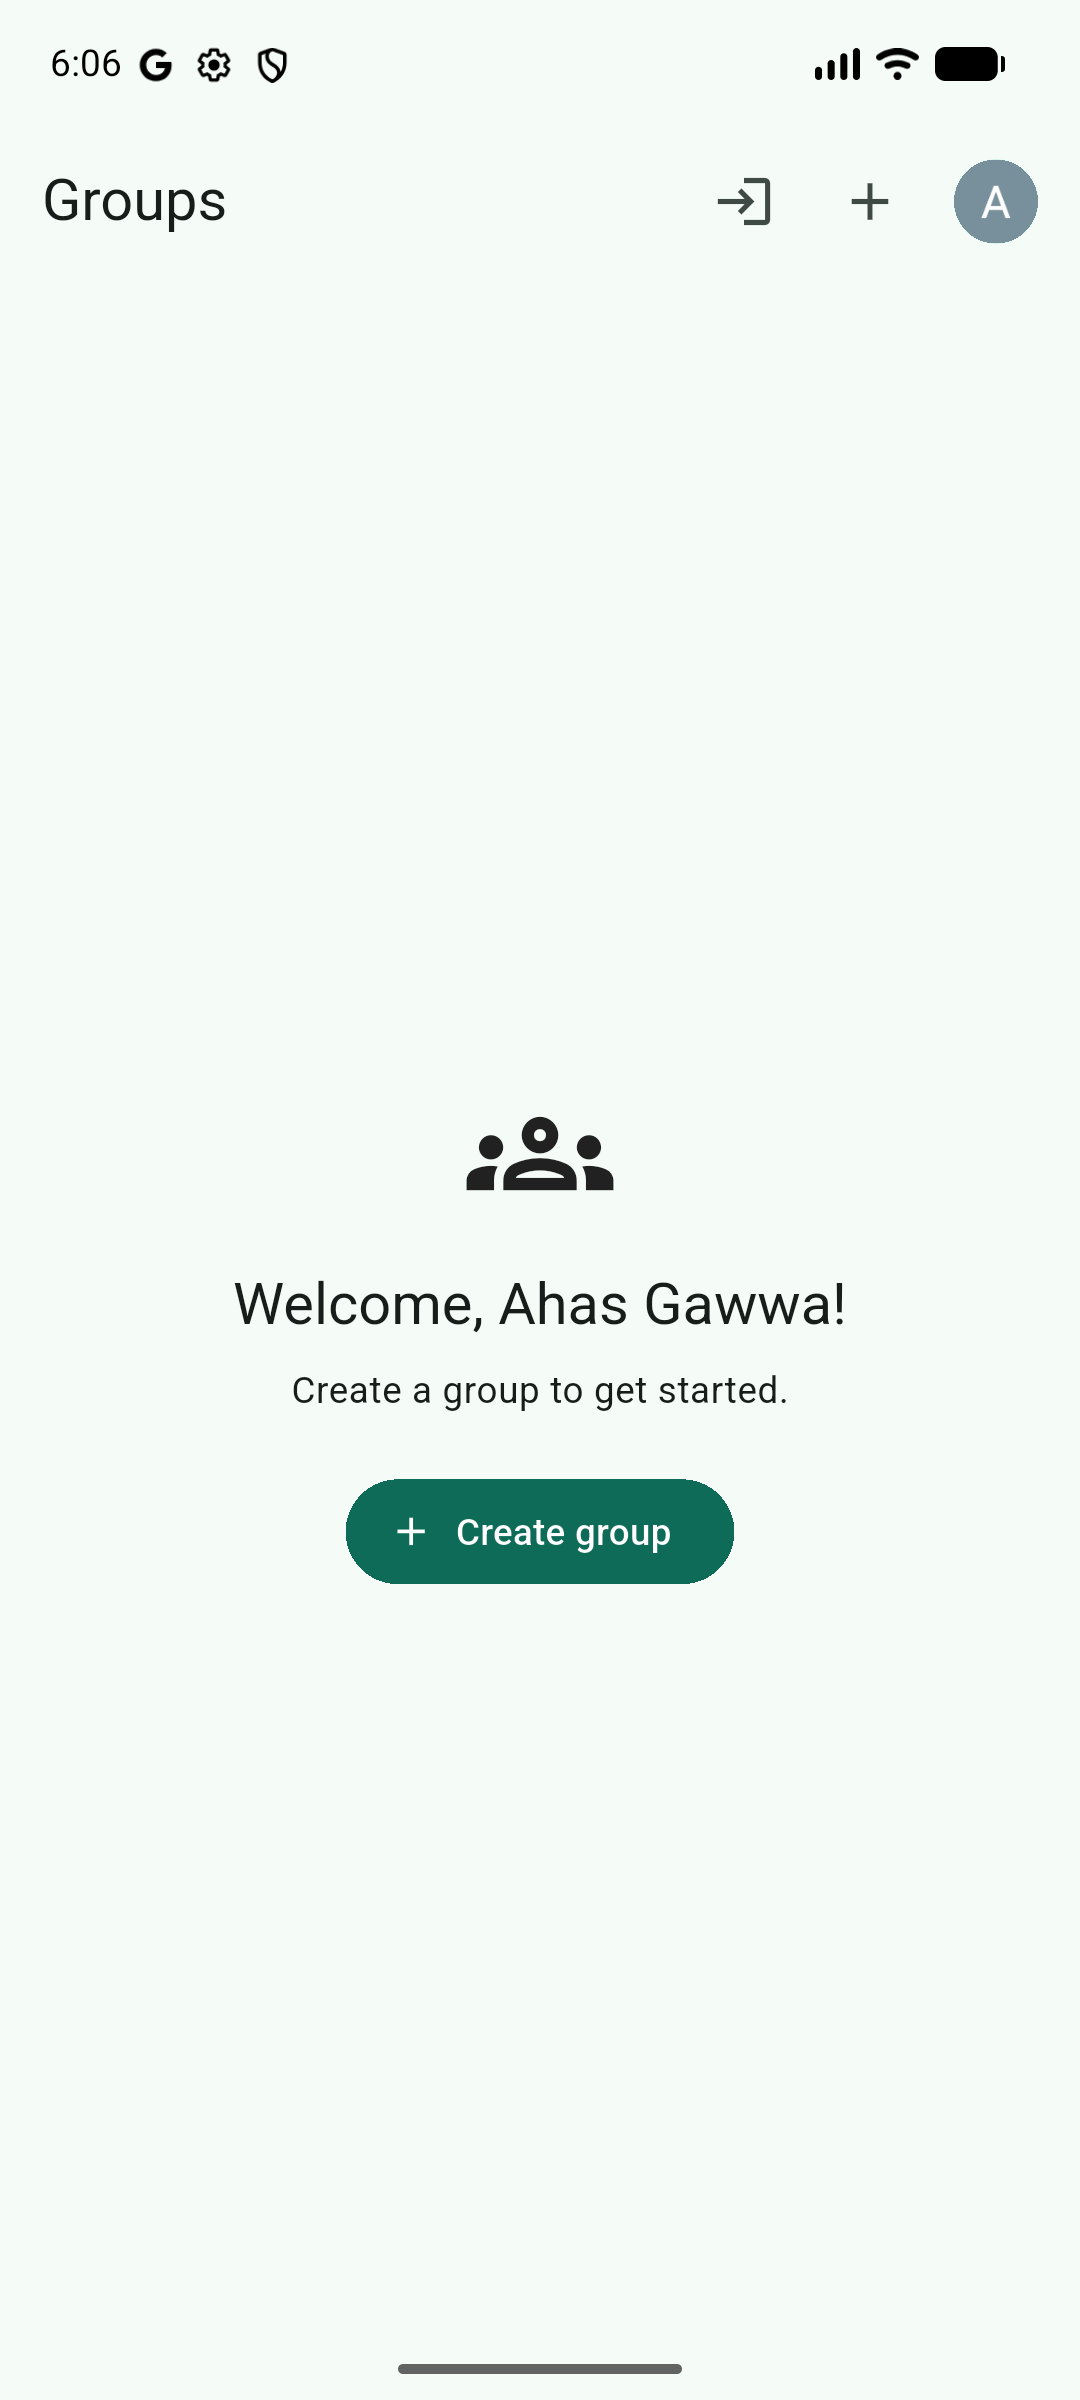
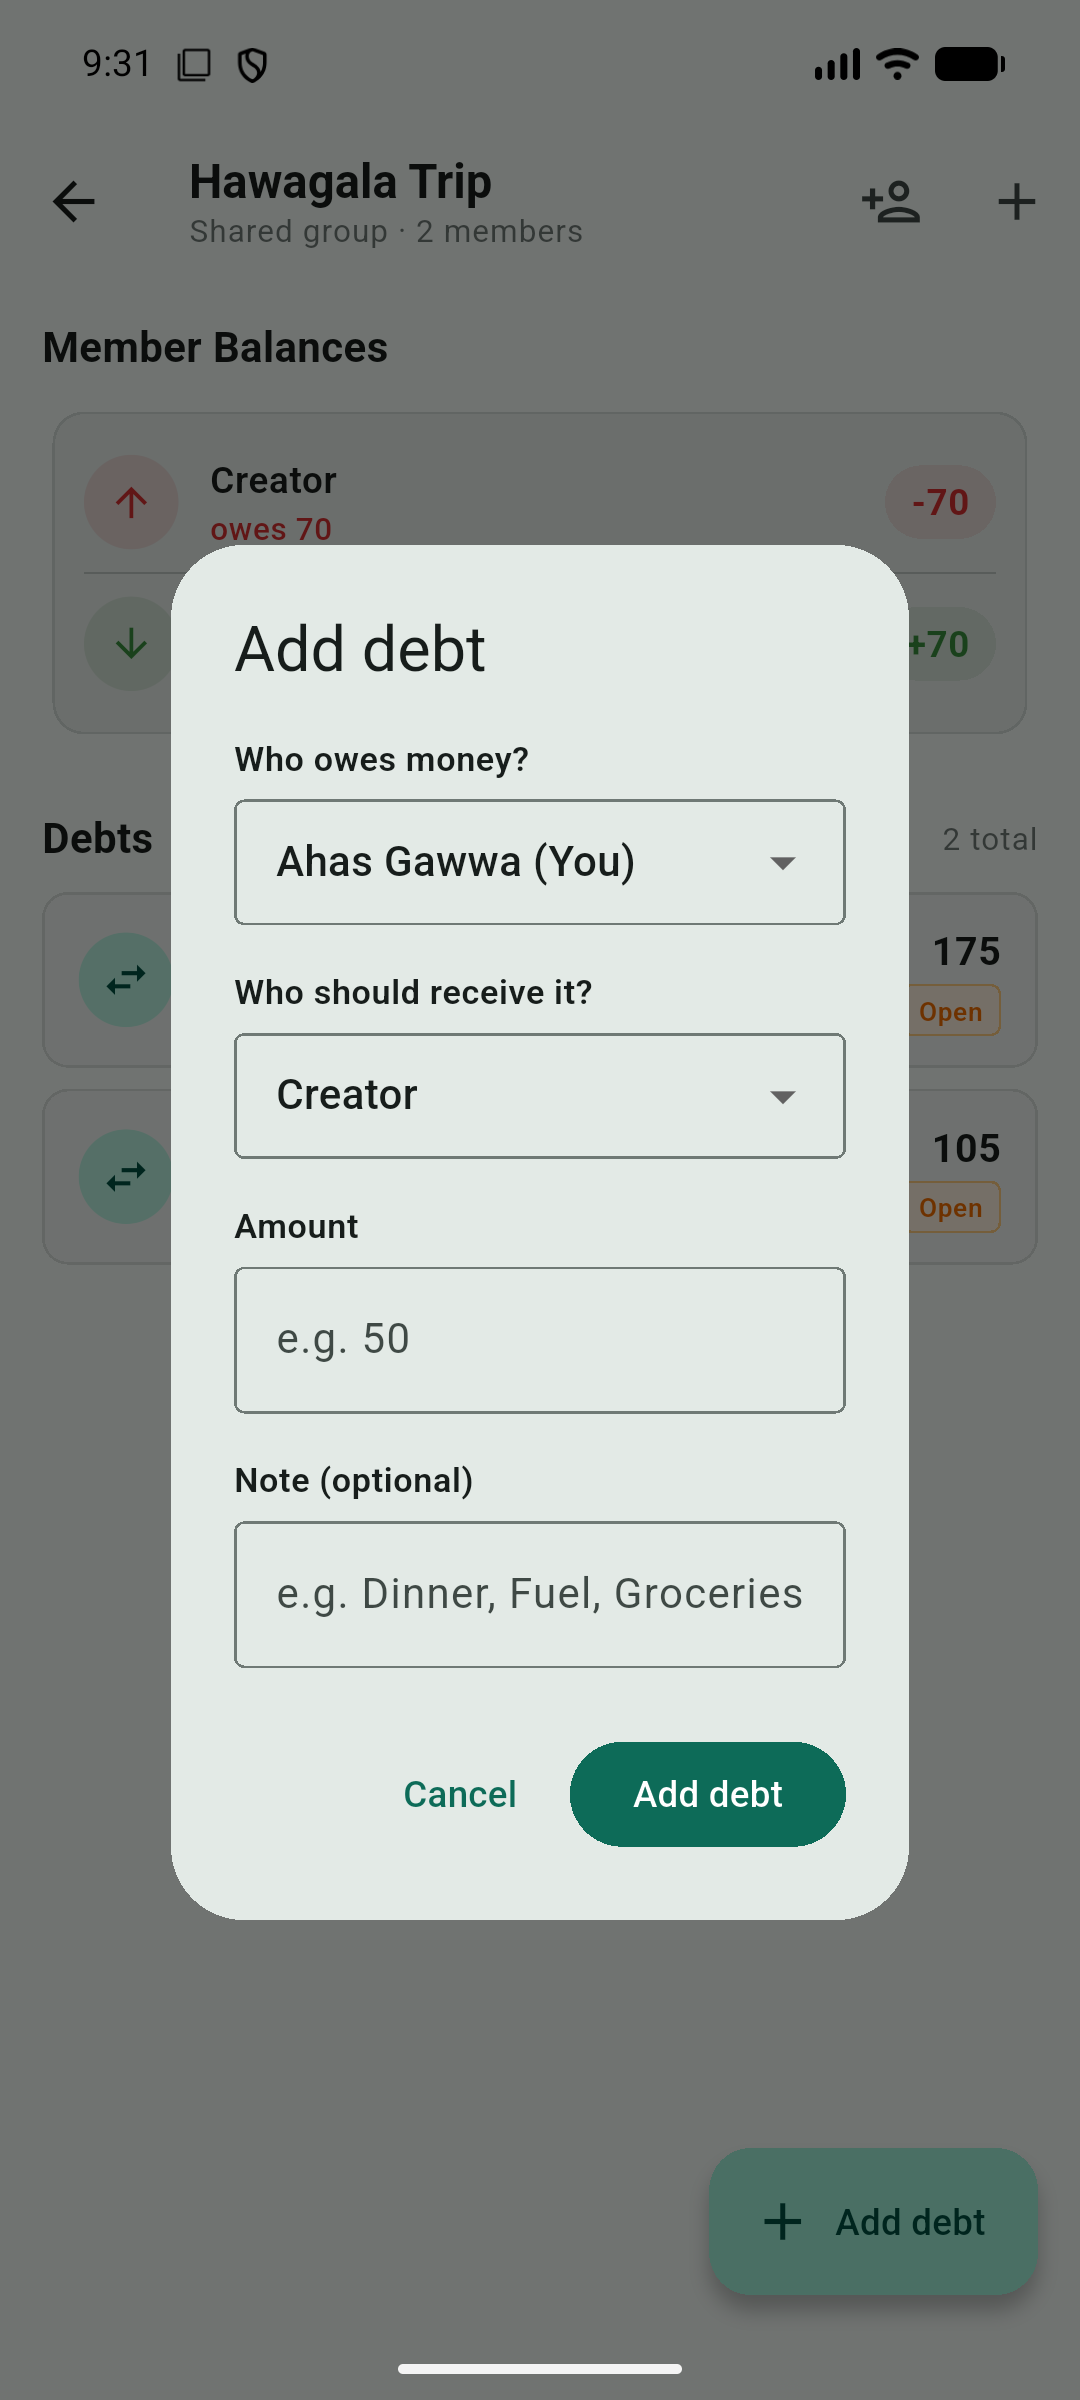
feat: add group details screen, group service, and firestore security rules

diff --git a/shared_debts/lib/screens/group_details_screen.dart b/shared_debts/lib/screens/group_details_screen.dart
@@ -44,8 +44,15 @@ class _GroupDetailsScreenState extends State<GroupDetailsScreen> {
       }
       return 'You';
     }
+    if (memberId == widget.group.creatorId) {
+      return 'Creator';
+    }
+    final index = widget.group.memberIds.indexOf(memberId);
+    if (index != -1) {
+      return 'Member ${index + 1}';
+    }
     final short = memberId.length > 6 ? memberId.substring(0, 6) : memberId;
-    return 'Member ($short)';
+    return 'Member $short';
   }
 
   String _formatAmount(double amount) {
@@ -479,75 +486,111 @@ class _GroupDetailsScreenState extends State<GroupDetailsScreen> {
   }
 
   Widget _buildDebtCard(Debt debt) {
+    final debtor = _formatMemberLabel(debt.debtorId);
+    final creditor = _formatMemberLabel(debt.creditorId);
+
     return Card(
+      elevation: 0,
       margin: const EdgeInsets.only(bottom: 8),
       shape: RoundedRectangleBorder(
         borderRadius: BorderRadius.circular(10),
-      ),
-      child: ListTile(
-        contentPadding: const EdgeInsets.symmetric(horizontal: 16, vertical: 4),
-        leading: CircleAvatar(
-          backgroundColor: Theme.of(context)
+        side: BorderSide(
+          color: Theme.of(context)
               .colorScheme
-              .primaryContainer
-              .withValues(alpha: 0.7),
-          child: Icon(
-            Icons.swap_horiz,
-            color: Theme.of(context).colorScheme.onPrimaryContainer,
-          ),
+              .outlineVariant
+              .withValues(alpha: 0.5),
         ),
-        title: RichText(
-          text: TextSpan(
-            style: DefaultTextStyle.of(context).style,
-            children: [
-              TextSpan(
-                text: _formatMemberLabel(debt.debtorId),
-                style: const TextStyle(fontWeight: FontWeight.bold),
-              ),
-              const TextSpan(text: ' owes '),
-              TextSpan(
-                text: _formatMemberLabel(debt.creditorId),
-                style: const TextStyle(fontWeight: FontWeight.bold),
-              ),
-            ],
-          ),
-        ),
-        subtitle: debt.note != null && debt.note!.isNotEmpty
-            ? Padding(
-                padding: const EdgeInsets.only(top: 4),
-                child: Text(
-                  debt.note!,
-                  style: TextStyle(color: Colors.grey.shade700),
-                ),
-              )
-            : null,
-        trailing: Column(
-          mainAxisAlignment: MainAxisAlignment.center,
-          crossAxisAlignment: CrossAxisAlignment.end,
+      ),
+      child: Padding(
+        padding: const EdgeInsets.symmetric(horizontal: 14, vertical: 12),
+        child: Row(
+          crossAxisAlignment: CrossAxisAlignment.center,
           children: [
-            Text(
-              _formatAmount(debt.amount),
-              style: const TextStyle(
-                fontWeight: FontWeight.bold,
-                fontSize: 16,
+            CircleAvatar(
+              radius: 18,
+              backgroundColor: Theme.of(context)
+                  .colorScheme
+                  .primaryContainer
+                  .withValues(alpha: 0.7),
+              child: Icon(
+                Icons.swap_horiz,
+                size: 20,
+                color: Theme.of(context).colorScheme.onPrimaryContainer,
               ),
             ),
-            const SizedBox(height: 2),
-            Container(
-              padding: const EdgeInsets.symmetric(horizontal: 6, vertical: 2),
-              decoration: BoxDecoration(
-                color: Colors.orange.shade50,
-                border: Border.all(color: Colors.orange.shade200),
-                borderRadius: BorderRadius.circular(6),
+            const SizedBox(width: 12),
+            Expanded(
+              child: Column(
+                crossAxisAlignment: CrossAxisAlignment.start,
+                mainAxisSize: MainAxisSize.min,
+                children: [
+                  Text.rich(
+                    TextSpan(
+                      style: Theme.of(context).textTheme.bodyMedium?.copyWith(
+                            color: Colors.black87,
+                            fontSize: 14,
+                          ),
+                      children: [
+                        TextSpan(
+                          text: debtor,
+                          style: const TextStyle(fontWeight: FontWeight.w700),
+                        ),
+                        const TextSpan(text: ' owes '),
+                        TextSpan(
+                          text: creditor,
+                          style: const TextStyle(fontWeight: FontWeight.w700),
+                        ),
+                      ],
+                    ),
+                    maxLines: 2,
+                    overflow: TextOverflow.ellipsis,
+                  ),
+                  if (debt.note != null && debt.note!.trim().isNotEmpty) ...[
+                    const SizedBox(height: 3),
+                    Text(
+                      debt.note!.trim(),
+                      style: TextStyle(
+                        fontSize: 12,
+                        color: Colors.grey.shade600,
+                      ),
+                      maxLines: 1,
+                      overflow: TextOverflow.ellipsis,
+                    ),
+                  ],
+                ],
               ),
-              child: Text(
-                'Open',
-                style: TextStyle(
-                  fontSize: 10,
-                  fontWeight: FontWeight.w600,
-                  color: Colors.orange.shade800,
+            ),
+            const SizedBox(width: 12),
+            Column(
+              crossAxisAlignment: CrossAxisAlignment.end,
+              mainAxisSize: MainAxisSize.min,
+              children: [
+                Text(
+                  _formatAmount(debt.amount),
+                  style: const TextStyle(
+                    fontWeight: FontWeight.bold,
+                    fontSize: 15,
+                  ),
                 ),
-              ),
+                const SizedBox(height: 2),
+                Container(
+                  padding:
+                      const EdgeInsets.symmetric(horizontal: 6, vertical: 2),
+                  decoration: BoxDecoration(
+                    color: Colors.orange.shade50,
+                    border: Border.all(color: Colors.orange.shade200),
+                    borderRadius: BorderRadius.circular(4),
+                  ),
+                  child: Text(
+                    'Open',
+                    style: TextStyle(
+                      fontSize: 10,
+                      fontWeight: FontWeight.w600,
+                      color: Colors.orange.shade800,
+                    ),
+                  ),
+                ),
+              ],
             ),
           ],
         ),

diff --git a/shared_debts/test/widget_test.dart b/shared_debts/test/widget_test.dart
@@ -331,6 +331,23 @@ void main() {
       () => service.joinGroupWithToken(validToken, 'user_1'),
       throwsA(predicate((e) => e.toString().contains('already a member'))),
     );
+
+    // Unrelated user cannot revoke another group's invitation
+    final token2 = await service.createInvitation(
+      groupId: group.id,
+      creatorId: 'user_1',
+    );
+    expect(
+      () => service.revokeInvitation(token: token2, userId: 'unrelated_user'),
+      throwsA(predicate((e) => e.toString().contains('Unauthorized'))),
+    );
+
+    // Creator can revoke the invitation
+    await service.revokeInvitation(token: token2, userId: 'user_1');
+    expect(
+      () => service.joinGroupWithToken(token2, 'new_user'),
+      throwsA(predicate((e) => e.toString().contains('Invalid invitation'))),
+    );
   });
 
   test('Debt model converts to and from map with correct fields', () {
@@ -516,7 +533,14 @@ void main() {
     expect(find.text('Debts'), findsOneWidget);
     expect(find.text('Gas'), findsOneWidget);
     expect(find.text('40'), findsOneWidget);
+    expect(find.text('Open'), findsOneWidget);
     expect(find.text('Add debt'), findsWidgets);
+
+    // Verify raw UID is NOT shown; formatted readable name is shown instead
+    expect(find.textContaining('guest_user'), findsNothing);
+    expect(find.textContaining('friend_456'), findsNothing);
+    expect(find.textContaining('Creator'), findsWidgets);
+    expect(find.textContaining('Member 2'), findsWidgets);
   });
 }
 

diff --git a/shared_debts/lib/services/group_service.dart b/shared_debts/lib/services/group_service.dart
@@ -240,6 +240,31 @@ class GroupService {
     }
   }
 
+  Future<void> revokeInvitation({
+    required String token,
+    required String userId,
+  }) async {
+    if (token.trim().isEmpty || userId.trim().isEmpty) {
+      throw Exception('Token and user ID are required');
+    }
+    final firestore = _firestore;
+    if (firestore != null) {
+      await firestore.collection('invitations').doc(token).delete();
+    } else {
+      final inv = _inMemoryInvitations[token];
+      if (inv == null) throw Exception('Invalid invitation');
+      final groupId = inv['groupId']!;
+      final group = _inMemoryGroups.firstWhere(
+        (g) => g.id == groupId,
+        orElse: () => throw Exception('Group not found'),
+      );
+      if (inv['creatorId'] != userId && !group.memberIds.contains(userId)) {
+        throw Exception('Unauthorized to delete invitation');
+      }
+      _inMemoryInvitations.remove(token);
+    }
+  }
+
   // ---------------------------------------------------------------
   //  Debts Management
   // ---------------------------------------------------------------
